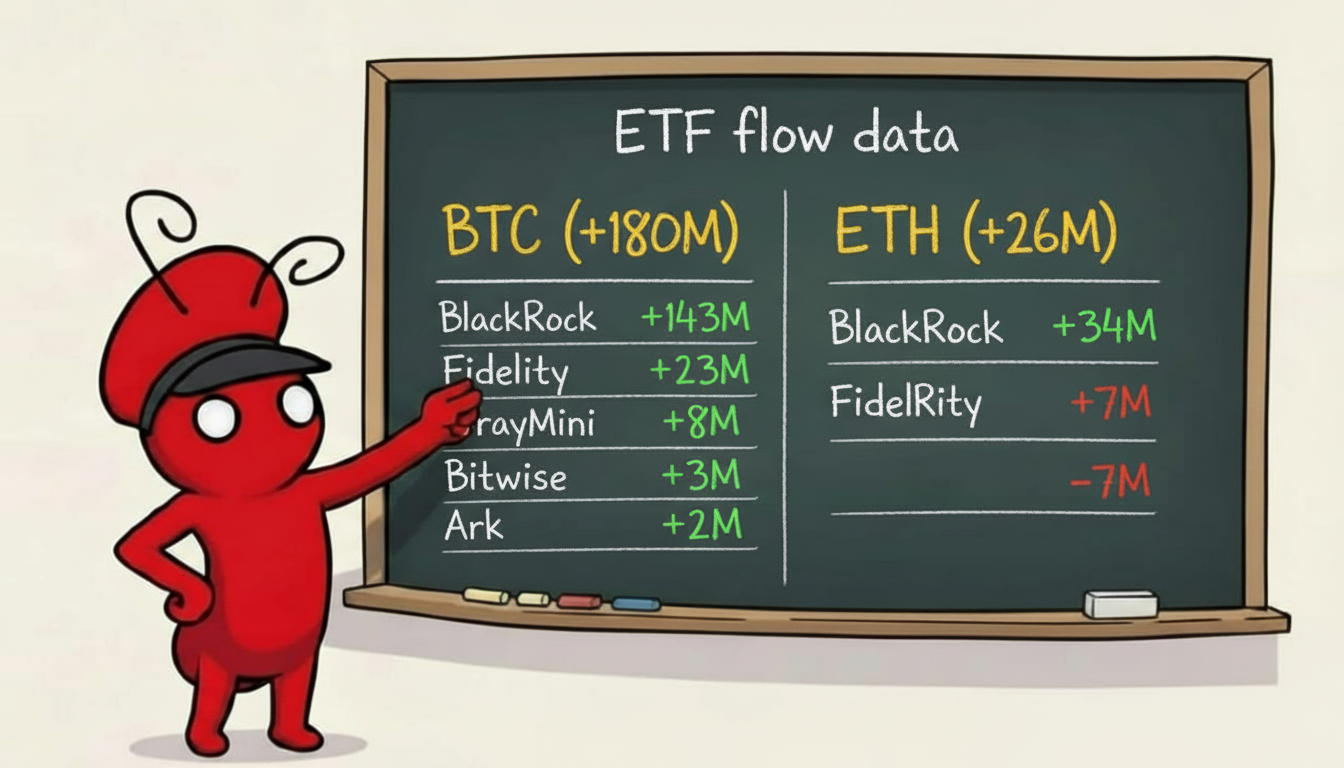
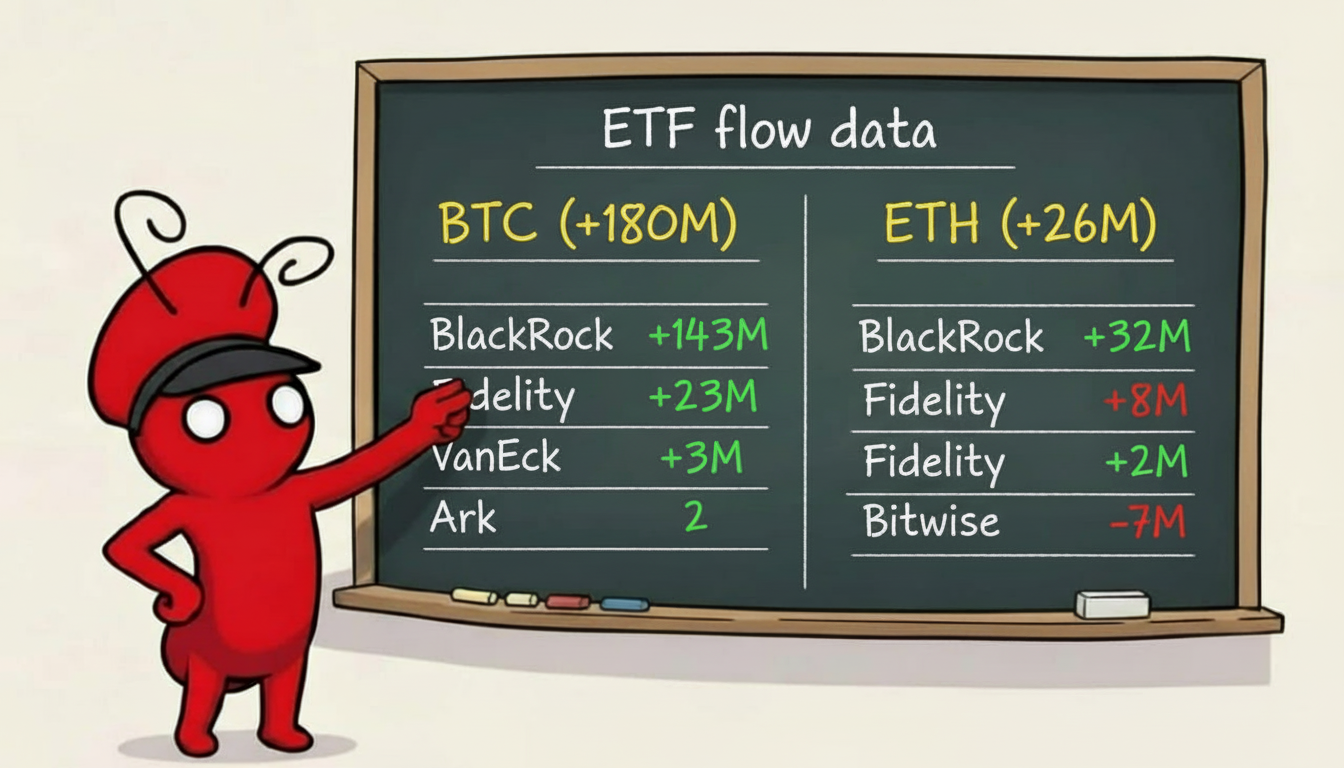
feat: 자동화 실패 텔레그램 알림 추가 (리더보드/지갑봇/피드)

diff --git a/bots/referral-bot/export_leaderboard.py b/bots/referral-bot/export_leaderboard.py
@@ -1,6 +1,18 @@
 # DB에서 leaderboard.json 생성 후 /tmp/fireant-dashboard에 복사 + git push
-import sqlite3, json, subprocess
+import sqlite3, json, subprocess, urllib.request
 from datetime import datetime, date
+
+BOT_TOKEN = "***REMOVED***"
+CHAT_ID = "477743685"
+
+def tg_alert(msg: str):
+    try:
+        url = f"https://api.telegram.org/bot{BOT_TOKEN}/sendMessage"
+        data = json.dumps({"chat_id": CHAT_ID, "text": msg}).encode()
+        req = urllib.request.Request(url, data=data, headers={"Content-Type": "application/json"})
+        urllib.request.urlopen(req, timeout=5)
+    except Exception:
+        pass
 
 DB = '/Users/fireant/.openclaw/workspace/bots/referral-bot/referral.db'
 DASHBOARD = '/tmp/fireant-dashboard'
@@ -63,9 +75,16 @@ print(f"✅ leaderboard.json 생성 완료 ({len(data['leaderboard'])}명)")
 # ── git push ──────────────────────────────────────────────────
 result = subprocess.run(
     ["bash", "-c",
-     f"cd {DASHBOARD} && git add leaderboard.json && "
-     f"git diff --cached --quiet || git commit -m '리더보드 자동 업데이트' && git push"],
+     f"cd {DASHBOARD} && git fetch origin main && "
+     f"git add leaderboard.json && "
+     f"git diff --cached --quiet || git commit -m '리더보드 자동 업데이트' && "
+     f"git rebase origin/main && git push"],
     capture_output=True, text=True
 )
 print(result.stdout or "up-to-date")
-print(result.stderr[:200] if result.stderr else "")
+if result.returncode != 0:
+    err = result.stderr[:300] if result.stderr else "unknown error"
+    tg_alert(f"⚠ [리더보드 동기화 실패]\n{err}")
+    print(f"ALERT SENT: {err}")
+else:
+    print(result.stderr[:200] if result.stderr else "")

diff --git a/etf_image_gen.py b/etf_image_gen.py
@@ -168,26 +168,26 @@ def generate(btc_total: float, btc_funds: dict,
 
 
 if __name__ == "__main__":
-    # 3/13 (US) 데이터 — web_search 보완 (Farside Cloudflare 차단)
-    # Coinglass 교차검증: $180.40M vs $180.51M → 0.06% 차이, PASS
+    # 3/13 (US) 데이터 — Farside 직접 수집
+    # Coinglass 교차검증: $180.40M vs $180.40M → PASS
     btc_funds = {
-        "BlackRock": 143.77,
-        "Fidelity": 23.24,
+        "BlackRock": 143.6,
+        "Fidelity": 23.2,
         "Bitwise": 3.1,
         "Ark": 2.4,
         "BTCO": 0.0,
         "EZBC": 0.0,
         "BRRR": 0.0,
-        "VanEck": 0.0,
+        "VanEck": 8.1,
         "BTCW": 0.0,
         "Grayscale": 0.0,
-        "GrayMini": 8.0,
+        "GrayMini": 0.0,
     }
     # ETH: 3/13 데이터
     eth_funds = {
-        "BlackRock": 34.6,
-        "Fidelity": -7.9,
-        "Bitwise": 0.0,
+        "BlackRock": 32.4,
+        "Fidelity": 2.2,
+        "Bitwise": -7.9,
         "21Shares": 0.0,
         "VanEck": 0.0,
         "Invesco": 0.0,
@@ -195,4 +195,4 @@ if __name__ == "__main__":
         "Grayscale": 0.0,
         "GrayMini": 0.0,
     }
-    generate(180.51, btc_funds, 26.7, eth_funds)
+    generate(180.4, btc_funds, 26.7, eth_funds)
